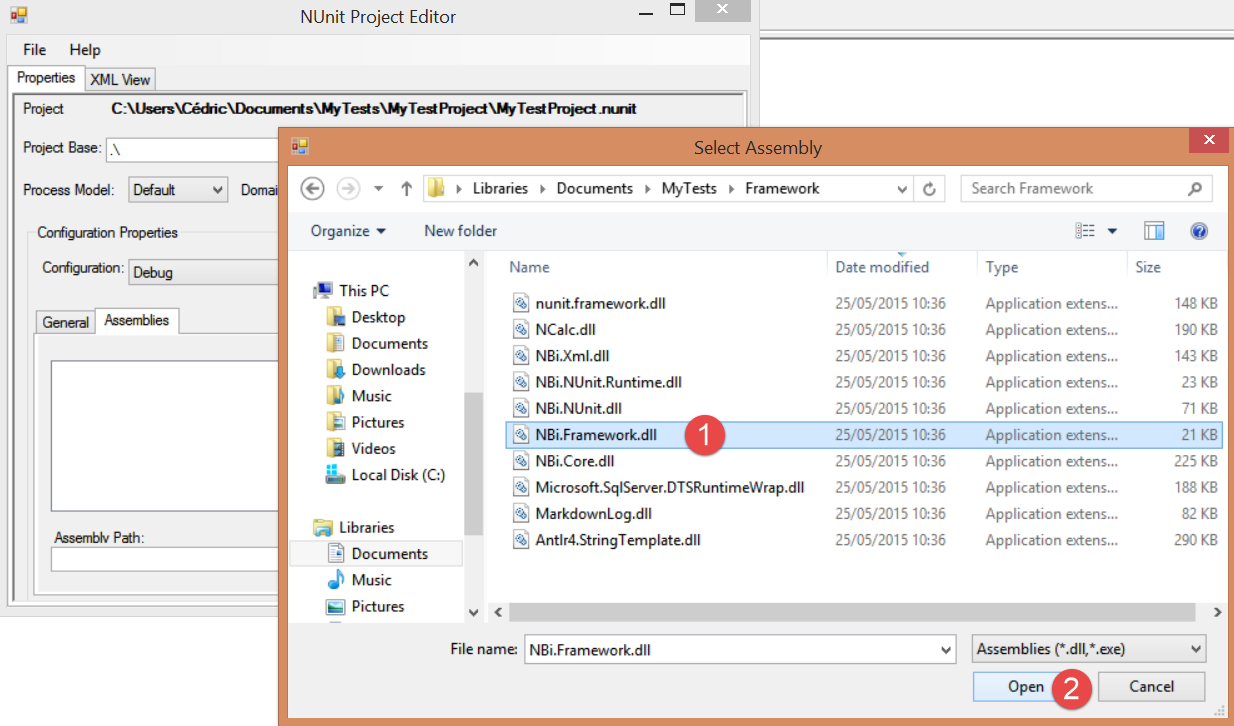
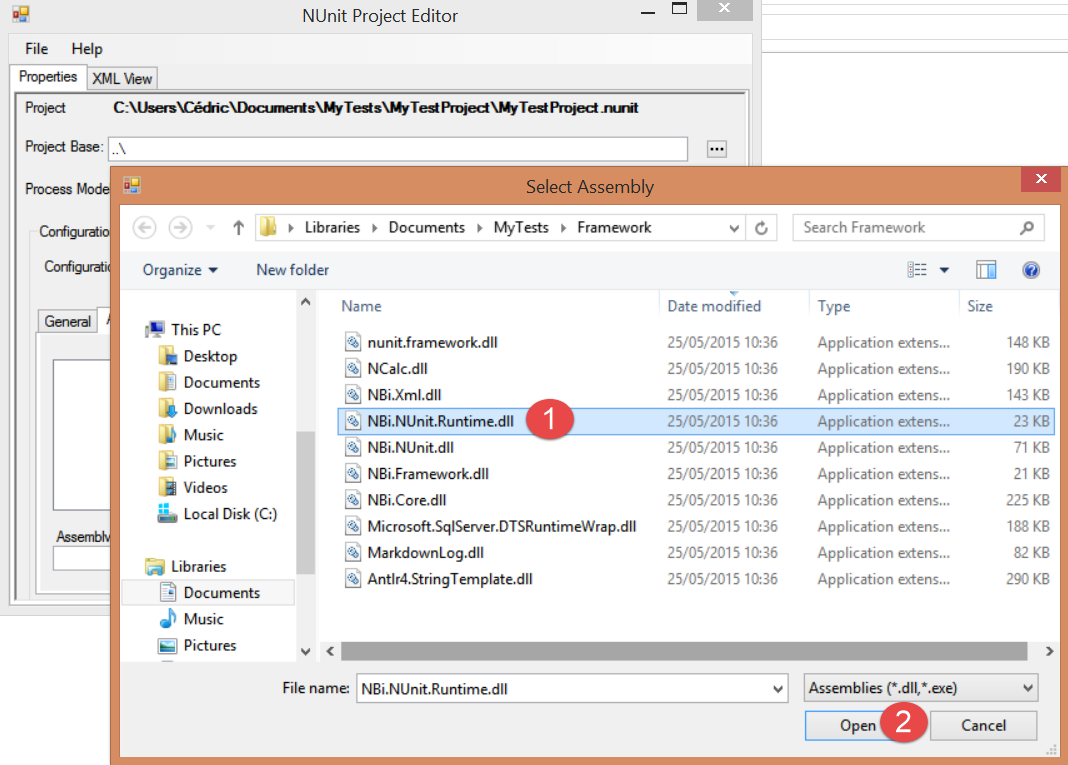
Additional review and add pictures where needed

diff --git a/_documentation/equivalence-resultsets.md b/_documentation/equivalence-resultsets.md
@@ -1,7 +1,7 @@
 ---
 layout: documentation
 title: Equivalence of two result-sets
-prev_section: run-with-nunit
+prev_section: run-alternative
 next_section: comparison-configuration
 permalink: /docs/equivalence-resultsets/
 ---
@@ -15,6 +15,7 @@ NBi is able to execute **SQL**, **MDX** or **DAX** queries and capture the resul
 During test's execution, NBi will compare the two result-sets and provide a brief analysis if they differe. To guide NBi during this comparison, you've the possibility to specify the role played by each column and the tolerance that you'll allow on them.
 
 ## system-under-test
+
 Let's start with the definition of your system-under-test:
 
 You must create an xml element named *execution* under the element *system-under-test*. Inside this element *execution*, you must create another xml element named *query*. You can specify a connection string to this query or rely on the [default connection string](/docs/manage-connection-strings).
@@ -53,6 +54,7 @@ Once your system-under-test is defined, you'll need to specify what you want to 
 {% endhighlight %}
 
 ### Embedded result-set
+
 The easiest way to define a result-set is to define it in the test. You must create a new xml element *row* for each row of the result-set. For each row, you must specify the expected values in different xml elements named *cell*.
 {% highlight xml %}
 <equalTo>
@@ -64,6 +66,7 @@ The easiest way to define a result-set is to define it in the test. You must cre
 {% endhighlight %}
 
 ### External CSV file
+
 You also have the opportunity to specify that a result-set is defined in an external file (useful for large result-sets)
 {% highlight xml %}
 <equalTo>
@@ -73,6 +76,7 @@ You also have the opportunity to specify that a result-set is defined in an exte
 If needed, you can also specify an alternative [CSV profile](csv-profile) in the settings. Note that for the embedded result-set and for the external result-set, the *numeric values* must be written with an international format (a dot (".") to separate the integer part of the decimal part).
 
 ### Another query
+
 Finally, the third choice is to compare the result-set of the system-under-test to the result-set of another query. This can be useful to ensure a non-regression between two systems or to compare the data warehouse data and the corresponding olap data. To do this, the expression here under must be applied.
 {% highlight xml %}
 <equalTo>
@@ -83,6 +87,7 @@ Finally, the third choice is to compare the result-set of the system-under-test 
 {% endhighlight %}
 
 ## Advanced features
+
 With NBi, you can also check a cell's value against special values such as *null*, *empty* or *any value*. This is detailed in the article about [special and generic values](/docs/special-generic-values/).
 
 By default, NBi will take the assumption that the first column is a key (text) and the other columns are values (numeric without tolerance). This will influence the comparison's result. If you want to override this configuration, you should read the documentation about [result-set's comparison configuration](/docs/comparison-configuration/).
@@ -92,6 +97,7 @@ NBi is also able to manage dateTime and boolean formats without tricks in SQL qu
 The comparison can also include [tolerances and roundings](/docs/tolerances-roundings/) methods when comparing numeric and dateTime types.
 
 ## Improve performance with queries' parallelization
+
 By default, NBi will run the queries (system-under-test and assertion) in parallel. This usually improves the performances because the two queries are usually on different systems.
 
 When parallelization is activated, this directly influences the output in the console or the output tab. The two result-sets will be intermixed and probably not interpretable. Note that this output is only visible when the trace level is set to 4 (see [enable and display trace messages](/docs/trace/)). The output of the two result-sets could be mixed. This will not influence the test execution but your debugging experience can suffer. We recommend to desactivate the queries' parallelization when the trace level is set to 4.

diff --git a/_documentation/run-alternative.md b/_documentation/run-alternative.md
@@ -1,0 +1,34 @@
+---
+layout: documentation
+title: Alternative setups
+prev_section: run-with-nunit
+next_section: equivalence-resultsets
+permalink: /docs/run-alterative/
+---
+The installation described in the previous pages is probably the more common and helpful but it's possible to setup NBi and the test environments differently depending of your needs. Here under, you'll find more information about running tests with *Gallio Icarius* and usage of a shortcut for quick test-suite.
+
+## Gallio Icarius
+
+Gallio Icarius is a tests-runner initially developed by the team building MbUnit (.Net Unit testing framework). This runner supports a lot of Unit framework including NUnit. This project is deprecated but the runner has some fans and it's possible to run test-suites built with NBi on base of this runner.
+
+Gallio is more strict than NUnit on some points and particulary it's requiring that the config file is at in the root folder (and not in a sub-folder). To design a valid test-environment, just move the config file to the root folder. More the name of the config file should absolutely be **NBi.NUnit.Runtime.dll.config** (yes, with a .dll.config).
+
+Start Gallio Icarius and choose the menu option "file > new project". Then click on "+ Add file" button and select the dll named NBi.NUnit.Runtime.dll (available in your installation folder). Gallio will load your test-suite.
+
+![Gallio Icarius](../../img/docs/run-alternative/gallio-run.png)
+
+## Unique nbits file
+
+Sometimes, it's useful to create a quick test-suite without config or project files. In this case, the quickest way to create a test-suite is to add a file with the extension *.nbits* in the directory with NBi framework. Then start NUnit GUI (or Gallio) and select the assembly *nbi.runtime.dll*. This dll will look in its folder after *.nbits* files and load the first file found.
+
+An alternative is to create a file named *NBi.NUnit.Runtime.dll.config (with "dll"!)*. In this file, just add the standard configuration of an NBi test-suite including the path to your test suite. In the sample bellow, the test suite is defined in the sub-directory named "SubDirectory" in file "myTestSuite.nbits". Then start NUnit GUI (or Gallio) and select the assembly *nbi.runtime.dll*. This dll will look in its folder after its configuration file *NBi.NUnit.Runtime.dll.config* files then read it and redirect to the test-suite specified in this file.
+
+{% highlight xml %}
+<?xml version="1.0" encoding="utf-8" ?>
+<configuration>
+	<configSections>
+		<section name="nbi" type="NBi.NUnit.Runtime.NBiSection, NBi.NUnit.Runtime"/>
+	</configSections>
+	<nbi testSuite="SubDirectory\myTestSuite.nbits"/>
+</configuration>
+{% endhighlight %}

diff --git a/_documentation/installation-environment.md b/_documentation/installation-environment.md
@@ -6,27 +6,29 @@ next_section: installation-test-suite
 permalink: /docs/installation-environment/
 ---
 ## Folders and files
-A test environment is built upon the following directories hierarchy:
+
+A test environment is usually built upon the following directories hierarchy:
 
 the base directory, in the example: *…\MyTests\* that will include:
 
-* a directory for the NBi framework (and other non-mandatory NBi stuff present in the zip file)
-* a directory for each test subfolder (depending on how you organize your test projects, start with one)
+* a directory for the NBi framework
+* a couple of directories for not mandatory NBi stuff present in the zip file (Samples, genbi, ...)
+* a directory for each testing project (depending on how you organize your testing projects, start with one)
 
 To illustrate that, a folder *MyTests* has been created, with the sub-folders *Framework*, *Genbi* and *Samples* coming from the NBi zip file previously downloaded. There is also a sub-folder *MyTestProject* that I created myself:
 
-![repository structure](../../img/docs/installation-test-environment/intro_01.png)
+![repository structure](../../img/docs/installation-environment/intro_01.png)
 
 Then the minimal setup to start using NBi is to create 3 files. They are text files using an XML syntax (meaning that NotePad, NotePad++, Sublime Text, Visual Studio or any other text file editor are able to edit them) with the following naming convention (note the file extensions in each area):
 
-![repository structure](../../img/docs/installation-test-environment/intro_02.png)
+![repository structure](../../img/docs/installation-environment/intro_02.png)
 
 ## Content of the files
 
+* The .config file: referencing the test-suite's file.  You need to [initialize it by yourself](../installation-config)
 * The .nbits file: the actual test-suite where all your tests live. [How to build it](../installation-test-suite)
-* The .config file: It references the test-suite's file.  You need to [initialize it by yourself](../installation-config)
-* The .nunit file: It references the config file and the NBi framework. You need to [initialize it by yourself](../installation-nunit-project)
+* The .nunit file: referencing the config file and the NBi framework. You need to [initialize it by yourself](../installation-nunit-project)
 
-In each of these files, you will find the following content:
+In these files, you will find the following content:
 
-![repository structure](../../img/docs/installation-test-environment/intro_03.png)
+![repository structure](../../img/docs/installation-environment/intro_03.png)

diff --git a/_documentation/installation-nunit-project.md b/_documentation/installation-nunit-project.md
@@ -1,13 +1,34 @@
 ---
 layout: documentation
 title: NUnit project file
-prev_section: installation-config
-next_section: run-with-nunit
+prev_section: installation-test-suite
+next_section: installation-config
 permalink: /docs/installation-nunit-project/
 ---
 The .nunit file is used by NUnit to load a NUnit project. In the case of NBi, **this file references the configuration file and a dll from the NBi framework**.
 
+It contains three important information:
+
+* The appbase: The root directory, other paths will be relative to the directory specified in this attribute
+* The configfile: Relative path to the [config file](../installation-config)
+* The assembly path: Relative path to NBi framework
+
 This file can be generated by NUnit project editor (provided with NUnit) or alternatively by any xml or text editor editor.
+
+## Xml or text editor
+
+Open the project file with your favorite editor. The content should be :
+{% highlight xml %}
+<NUnitProject>
+  <Settings activeconfig="Default" processModel="Default" domainUsage="Default" />
+  <Config
+    name="Default"
+    binpathtype="Auto" appbase="..\"
+    configfile="MyTestProject\MyTestProject.config">
+    <assembly path="Framework\NBi.NUnit.Runtime.dll" />
+  </Config>
+</NUnitProject>
+{% endhighlight %}
 
 ## NUnit project editor
 
@@ -19,7 +40,9 @@ Edit the project *Project > Edit*
 
 ![Edit project](../../img/docs/installation-nunit-project/edit-project.png)
 
-and reference the *AppBase* as empty then the *config file* as “MyFirstTestSuite.config”.
+and reference the *AppBase* as the parent-folder. All paths in this file and the *config* file are related to this *AppBase* path.
+
+Then the *config file* as "MyTestProject\MyTestProject.config”.
 
 ![AppBase and config file](../../img/docs/installation-nunit-project/AppBase-Config.png)
 
@@ -34,18 +57,3 @@ reference the NBi.NUnit.Runtime.dll from the folder *framework* (others dll in t
 This dll should be the only dll referenced in your project.
 
 ![One assembly referenced](../../img/docs/installation-nunit-project/assembly-added.png)
-
-## Xml or text editor
-
-Open the project file with your favorite editor. The content should be :
-{% highlight xml %}
-<NUnitProject>
-  <Settings activeconfig="Default" processModel="Default" domainUsage="Default" />
-  <Config
-    name="Default"
-    binpathtype="Auto" appbase=".\"
-    configfile="MyTestProject.config">
-    <assembly path="..\..\Framework\NBi.NUnit.Runtime.dll" />
-  </Config>
-</NUnitProject>
-{% endhighlight %}

diff --git a/_documentation/installation-config.md b/_documentation/installation-config.md
@@ -1,11 +1,11 @@
 ---
 layout: documentation
 title: Configuration file
-prev_section: installation-test-suite
-next_section: installation-nunit-project
+prev_section: installation-nunit-project
+next_section: run-with-nunit
 permalink: /docs/installation-config/
 ---
-The configuration file is a key element in your test environment. **This file defines the path to your test-suite**. This done by specifying the path to the test-suite in the attribute *testSuite* of xml element nbi.
+The configuration file is a key element in your test environment. **This file defines the path to your test-suite**. This done by specifying the path to the test-suite in the attribute *testSuite* of xml element nbi. Keep in mind that this path is relative to the *AppBase* path defined in the nunit file.
 
 Note also that this config file must contain the xml element *section* and define the type *nbi* as specified here under.
 
@@ -15,6 +15,6 @@ Note also that this config file must contain the xml element *section* and defin
  <configSections>
   <section name="nbi" type="NBi.NUnit.Runtime.NBiSection, NBi.NUnit.Runtime"/>
  </configSections>
- <nbi testSuite="MyTestProject.nbits"/>
+ <nbi testSuite="MyTestProject\MyTestProject.nbits"/>
 </configuration>
 {% endhighlight %}

diff --git a/_documentation/run-with-nunit.md b/_documentation/run-with-nunit.md
@@ -2,7 +2,7 @@
 layout: documentation
 title: Run test-suite with NUnit
 prev_section: installation-nunit-project
-next_section: equivalence-resultsets
+next_section: run-alterative
 permalink: /docs/run-with-nunit/
 ---
 Once you've created a test-suite, you need to execute it. The easiest way to do this is by the means of NUnit GUI.
@@ -15,4 +15,8 @@ This project file will read the config file, redirecting to the test-suite and e
 
 The tests are built and displayed in NUnit UI (It can take a few seconds, especially if your test-suite has more than a few thousands tests). Now, you just need to select your tests and execute them with NUnit UI by clicking on the button *Run*. NBi will execute the tests and report failures.
 
-![NUnit select tests and execute them](../../img/docs/run-with-nunit/select-tests.png)
+![NUnit select tests and run them](../../img/docs/run-with-nunit/select-and-run.png)
+
+Depending of your configuration of NUnit, the checkboxes could not be visible. In this case go to *View > Tree > Show checkboxes* and check this option.
+
+![NUnit show checkboxes](../../img/docs/run-with-nunit/show-checkboxes.png)

diff --git a/_documentation/installation-test-suite.md b/_documentation/installation-test-suite.md
@@ -2,7 +2,7 @@
 layout: documentation
 title: Test-suite file
 prev_section: installation-environment
-next_section: installation-config
+next_section: installation-nunit-project
 permalink: /docs/installation-test-suite/
 ---
 The test-suite file contains the definition of the tests and has an extension *.nbits*. The tests are defined in an xml format, meaning that you can edit this file with any xml or text editor.
